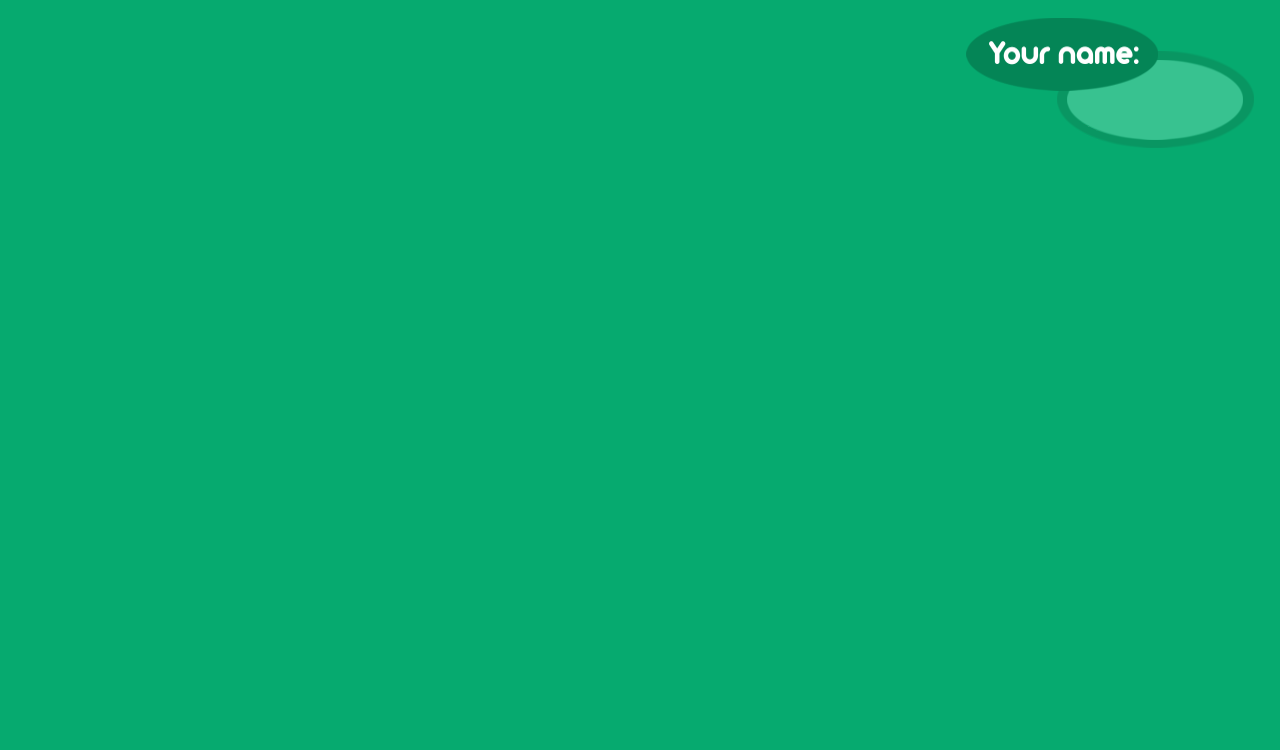
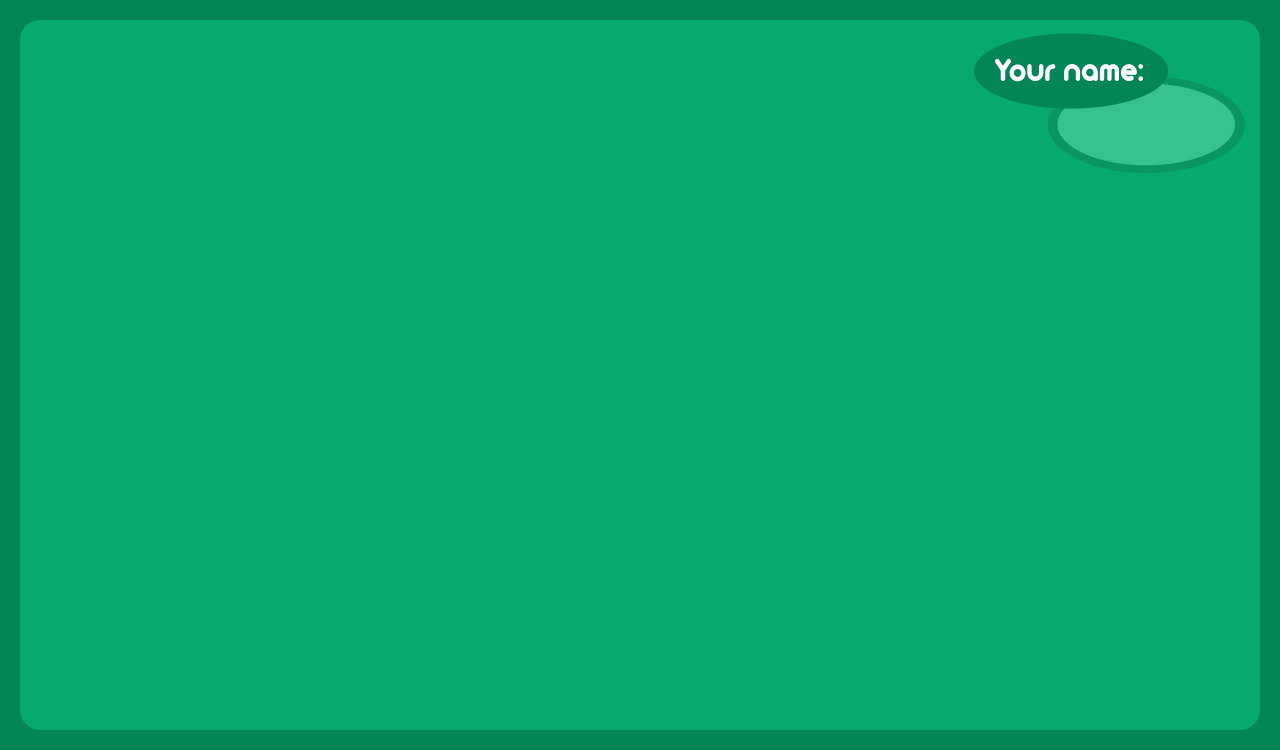
fixed label not updated changed background

Changed region(s): [[0.0, 0.0, 1.0, 1.0]]

diff --git a/src/main/java/sistemidistribuiti/uno/view/frame/MainWindow.java b/src/main/java/sistemidistribuiti/uno/view/frame/MainWindow.java
@@ -70,9 +70,10 @@ public class MainWindow extends JFrame implements GameGUIListener{
 	
 	private JLabel lblThisUser;
 	private JLabel lastPlayedCard;
-	private JLabel lblWaiting;
+	private JLabel lblMessage;
 	private JLabel loadCircle;
 	private JLabel[] lblPlayers = new JLabel[3];
+	private JLabel lblColorChanged;
 
 	/**
 	 * Launch the application.
@@ -145,42 +146,48 @@ public class MainWindow extends JFrame implements GameGUIListener{
 		lblThisUser.setHorizontalAlignment(SwingConstants.CENTER);
 		lblThisUser.setForeground(Color.WHITE);
 		lblThisUser.setFont(new Font("Arista", Font.PLAIN, 30));
-		lblThisUser.setBounds(1090, 80, 132, 37);
+		lblThisUser.setBounds(1080, 105, 132, 37);
 		gamePanel.add(lblThisUser);
 		
 		lblPlayers[0] = new JLabel("player2");
 		lblPlayers[0].setForeground(Color.WHITE);
 		lblPlayers[0].setFont(new Font("Arista", Font.PLAIN, 28));
-		lblPlayers[0].setBounds(60, 224, 120, 37);
+		lblPlayers[0].setBounds(63, 244, 120, 37);
 		lblPlayers[0].setVisible(false);
 		gamePanel.add(lblPlayers[0]);
 		
 		lblPlayers[1] = new JLabel("player3");
 		lblPlayers[1].setForeground(Color.WHITE);
 		lblPlayers[1].setFont(new Font("Arista", Font.PLAIN, 28));
-		lblPlayers[1].setBounds(515, 8, 120, 37);
+		lblPlayers[1].setBounds(515, 24, 120, 37);
 		lblPlayers[1].setVisible(false);
 		gamePanel.add(lblPlayers[1]);
 		
 		lblPlayers[2] = new JLabel("player4");
 		lblPlayers[2].setForeground(Color.WHITE);
 		lblPlayers[2].setFont(new Font("Arista", Font.PLAIN, 28));
-		lblPlayers[2].setBounds(951, 224, 120, 37);
+		lblPlayers[2].setBounds(951, 244, 120, 37);
 		lblPlayers[2].setVisible(false);
 		gamePanel.add(lblPlayers[2]);
 		
 		lastPlayedCard = new JLabel("");
-		lastPlayedCard.setBounds(510, 280, 120, 180);
+		lastPlayedCard.setBounds(510, 260, 120, 180);
 		lastPlayedCard.setIcon(new ImageIcon(imageLoader.getComp("shadow.png")
 				.getScaledInstance(120, 180,Image.SCALE_SMOOTH)));
 		gamePanel.add(lastPlayedCard);
 		
+		lblColorChanged = new JLabel("");
+		lblColorChanged.setForeground(Color.WHITE);
+		lblColorChanged.setFont(new Font("Arista", Font.PLAIN, 32));
+		lblColorChanged.setBounds(60, 81, 367, 37);
+		gamePanel.add(lblColorChanged);
+		
 		this.stateDrawButton = BUTTON_DISABLED;
 		this.statePlayButton = BUTTON_DISABLED;
 		
-	    emptyPlayerCardShape = new RoundRectangle2D.Float(380, 475, 120, 180, 7, 7);
-	    playShape = new Ellipse2D.Float(530, 689, 105, 43);
-	    drawShape = new Ellipse2D.Float(675, 689, 105, 43);
+	    emptyPlayerCardShape = new RoundRectangle2D.Float(380, 467, 120, 180, 7, 7);
+	    playShape = new Ellipse2D.Float(535, 674, 105, 43);
+	    drawShape = new Ellipse2D.Float(680, 674, 105, 43);
 		painter.captureDeck(108);
 		painter.capturePlayButton(BUTTON_DISABLED);
 		painter.captureDrawButton(BUTTON_DISABLED);
@@ -237,8 +244,20 @@ public class MainWindow extends JFrame implements GameGUIListener{
 	    
 		setupLastPlayedCardView();
 		setupCardView();
+		
+		setInfoColor();
 	}
 	
+	private void setInfoColor() {
+		if (gameManager.getGame().isColorChanged()){
+			this.lblColorChanged.setText("The color is "+ gameManager.getLastPlayedCard().getColor() + " now!");
+			this.lblColorChanged.setVisible(true);
+		} else {
+			this.lblColorChanged.setVisible(false);
+		}	
+		gameManager.getGame().setColorChanged(false);
+	}
+
 	/**
 	 * Setup how the card is showed
 	 * 
@@ -297,6 +316,7 @@ public class MainWindow extends JFrame implements GameGUIListener{
 			        colors, // Array of choices
 			        colors[0]); // Initial choice
 			showed.setColor(input);
+			gameManager.getGame().setColorChanged(true);
 		}
 
 		if(showed.getCardType() == CARD_TYPE_ENUM.SPECIAL_CARD){
@@ -304,7 +324,6 @@ public class MainWindow extends JFrame implements GameGUIListener{
 			try {
 				gameManager.manageSpecialCard(specialCard);
 			} catch (NextPlayerNotFoundException e) {
-				// TODO Auto-generated catch block
 				e.printStackTrace();
 			}
 		}
@@ -390,7 +409,6 @@ public class MainWindow extends JFrame implements GameGUIListener{
 
 				if(lastPlayedNumberCard.getNumber() == toPlayNumberCard.getNumber()){
 					logger.log(Level.INFO, "6.0.7.4 playable ? ");
-
 					return true;
 				}
 				logger.log(Level.INFO, "6.0.7.5 playable ? ");
@@ -435,22 +453,22 @@ public class MainWindow extends JFrame implements GameGUIListener{
 		JOptionPane.showMessageDialog(null, String.format("Player %s won!", player.getNickname()));
 	}
 	
-	public void setupWaiting() {
+	private void setupWaiting() {
 		ImageIcon loading = new ImageIcon(getClass().getResource("/images/ajax-loader.gif"));
-		lblWaiting = new JLabel("waiting for other players...",JLabel.CENTER);
-		lblWaiting.setForeground(Color.WHITE);
-		lblWaiting.setFont(new Font("Arista", Font.PLAIN, 32));
-		lblWaiting.setHorizontalAlignment(SwingConstants.LEFT);
-		lblWaiting.setBounds(80, 23, 388, 48);
-		gamePanel.add(lblWaiting);		
+		lblMessage = new JLabel("waiting for other players...",JLabel.CENTER);
+		lblMessage.setForeground(Color.WHITE);
+		lblMessage.setFont(new Font("Arista", Font.PLAIN, 32));
+		lblMessage.setHorizontalAlignment(SwingConstants.LEFT);
+		lblMessage.setBounds(80, 28, 388, 48);
+		gamePanel.add(lblMessage);		
 		loadCircle = new JLabel();
-		loadCircle.setBounds(20, 10, 55, 55);
+		loadCircle.setBounds(20, 15, 55, 55);
 		loadCircle.setIcon(loading);
 		loadCircle.setVisible(true);
 		gamePanel.add(loadCircle);
 	}
 	
-	public void setOtherPlayersLabel() throws NextPlayerNotFoundException{
+	private void setOtherPlayersLabel() throws NextPlayerNotFoundException{
 		List<Player> players = gameManager.getGame().getPlayers();
 		Player current = null;
 		for(Player player : players){
@@ -473,14 +491,17 @@ public class MainWindow extends JFrame implements GameGUIListener{
 			turn="your";
 		else
 			turn=current.getNickname();
-		lblWaiting.setText("It's "+turn+" turn!");
+		lblMessage.setBounds(60, 46, 388, 48);
+		lblMessage.setText("It's "+turn+" turn!");
 	}
 	
-	public void setPlayerShapes(){
+	private void setPlayerShapes(){
 		List<UnoCard> cards = gameManager.getMyCards();
 		int handsize = cards.size();
-		int x = 15 - (handsize/7)*5;
-		int space = 140 - handsize*10;
+		int x = 10 - (handsize/7)*5;
+		if (handsize < 4) x = 80;
+		int space = 590/handsize -15;
+		if (space > 140) space =140;
 	    playerHandShapes.clear();
 	    for (int i = 0; i < handsize; i++) {
 	    	if(i==0) a.translate(x, 0);
@@ -505,7 +526,7 @@ public class MainWindow extends JFrame implements GameGUIListener{
 	public void setStateDrawButton(String stateDrawButton) {
 		this.stateDrawButton = stateDrawButton;
 	}
-	
+
 	private class MouseManager extends MouseAdapter{
 		
 		private int oldIndex;
@@ -542,6 +563,14 @@ public class MainWindow extends JFrame implements GameGUIListener{
 			if (playShape.contains(p) && !getStatePlayButton().equals(BUTTON_DISABLED)
 					&& selectedCardIndex != -1) {
 				playCard();
+				try {
+					painter.captureOtherPlayerHand(a, gameManager);
+				} catch (NextPlayerNotFoundException e1) {
+					e1.printStackTrace();
+				}
+				repaint();
+				setPlayerTurn();
+				setInfoColor();
 				return;
 			} else if (drawShape.contains(p) && !getStateDrawButton().equals(BUTTON_DISABLED)){
 				drawCard();

diff --git a/src/main/java/sistemidistribuiti/uno/view/frame/Painter.java b/src/main/java/sistemidistribuiti/uno/view/frame/Painter.java
@@ -19,6 +19,7 @@ import sistemidistribuiti.uno.exception.NextPlayerNotFoundException;
 import sistemidistribuiti.uno.model.card.UnoCard;
 import sistemidistribuiti.uno.model.card.impl.NumberCard;
 import sistemidistribuiti.uno.model.card.impl.SpecialCard;
+import sistemidistribuiti.uno.model.player.PLAYER_STATE;
 import sistemidistribuiti.uno.model.player.Player;
 import sistemidistribuiti.uno.workflow.GameManager;
 
@@ -45,6 +46,7 @@ public class Painter {
 	    buttonPlay = gc.createCompatibleImage(105, 43, BufferedImage.TRANSLUCENT);
 	    buttonDraw = gc.createCompatibleImage(105, 43, BufferedImage.TRANSLUCENT);
 	}
+	
 	
 	public void setRenderingHints(Graphics2D g){
 		g.setRenderingHint(KEY_INTERPOLATION, VALUE_INTERPOLATION_BILINEAR);
@@ -128,9 +130,11 @@ public class Painter {
 		setRenderingHints(g);
 		List<UnoCard> cards = gameManager.getMyCards();
 		int handsize = cards.size();
-		int x = 15 - (handsize/7)*5;
+		int x = 10 - (handsize/7)*5;
+		if (handsize < 4) x = 80;
 		int y = 15;
-		int space = 140 - handsize*10;
+		int space = 590/handsize -15;
+		if (space > 140) space =140;
 		int showX = 0, showY = 0;
 		String showCode = null;
 		for (int i = 0; i < handsize; i++) {
@@ -179,13 +183,13 @@ public class Painter {
 			double initialAngle = Math.toRadians(-angle * (size + 1) / 2);
 			a.rotate(initialAngle, 150, 342 - (5 * size / 4));
 			g.setTransform(a);
-			int x = 60; 
-			int y = 15 - (5 * size / 4); 
+			int x = 70; 
+			int y = 25 - (5 * size / 4); 
 			for (int j = size; j >= 0; j--) {
 				a.rotate(Math.toRadians(angle), 150, 342 - (5 * size / 4));
 				g.setTransform(a);
 				if (j != size) {
-					paintCard(g, "back", x, y);
+					paintCard(g, "back", x, y, 100, 140);
 				}
 			}
 			current = toDrawn;
@@ -219,21 +223,21 @@ public class Painter {
 	public void paintOPCapture(Graphics2D g, AffineTransform a){
 		a.setToIdentity();
 		g.setTransform(a);
-		g.drawImage(playerCardCapture[0], 72, 251, 400, 230, null);
-		g.drawImage(playerCardCapture[1], 523, 35, 400, 230, null);
-		g.drawImage(playerCardCapture[2], 958, 251, 400, 230, null);
+		g.drawImage(playerCardCapture[0], 75, 266, 400, 230, null);
+		g.drawImage(playerCardCapture[1], 523, 46, 400, 230, null);
+		g.drawImage(playerCardCapture[2], 953, 266, 400, 230, null);
 	}
 	
 	public void paintPlayerCapture(Graphics2D g){
-		g.drawImage(currentPlayerCardCapture, 380, 475, 594, 330, null);
+		g.drawImage(currentPlayerCardCapture, 380, 467, 594, 330, null);
 	}
 	
 	public void paintDeckCapture(Graphics2D g){
-		g.drawImage(deckCapture, 650, 256, 200, 300, null);
+		g.drawImage(deckCapture, 650, 236, 200, 300, null);
 	}
 	
 	public void paintLastCard(Graphics2D g){
-		g.drawImage(lastCardCapture, 510, 280, 120, 180, null);
+		g.drawImage(lastCardCapture, 510, 260, 120, 180, null);
 	}
 	   
 	public void paintBackground(Graphics2D g){
@@ -241,10 +245,10 @@ public class Painter {
 	}
 	
 	public void paintButtonPlay(Graphics2D g){
-		g.drawImage(buttonPlay, 530, 689, 105, 43, null);
+		g.drawImage(buttonPlay, 535, 674, 105, 43, null);
 	}
 
 	public void paintButtonDraw(Graphics2D g) {
-		g.drawImage(buttonDraw, 675, 689, 105, 43, null);
+		g.drawImage(buttonDraw, 680, 674, 105, 43, null);
 	}
 }

diff --git a/src/main/java/sistemidistribuiti/uno/model/game/Game.java b/src/main/java/sistemidistribuiti/uno/model/game/Game.java
@@ -27,6 +27,7 @@ public class Game implements Serializable {
 	private Deck discarded;
 	private Player current;
 	private Direction gameDirection;
+	private boolean colorChanged;
 
 	public Game(List<Player> players, Deck deck) {
 		this.players = players;
@@ -41,6 +42,7 @@ public class Game implements Serializable {
 		this.current = players.get(0);
 
 		this.gameDirection = Direction.getDefault();
+		this.colorChanged = false;
 	}
 
 	public List<Player> getPlayers() {
@@ -147,6 +149,14 @@ public class Game implements Serializable {
 		}
 		strGame = strGame + strCom;
 		return strGame;
+	}
+
+	public boolean isColorChanged() {
+		return colorChanged;
+	}
+
+	public void setColorChanged(boolean colorChanged) {
+		this.colorChanged = colorChanged;
 	}
 	
 }
